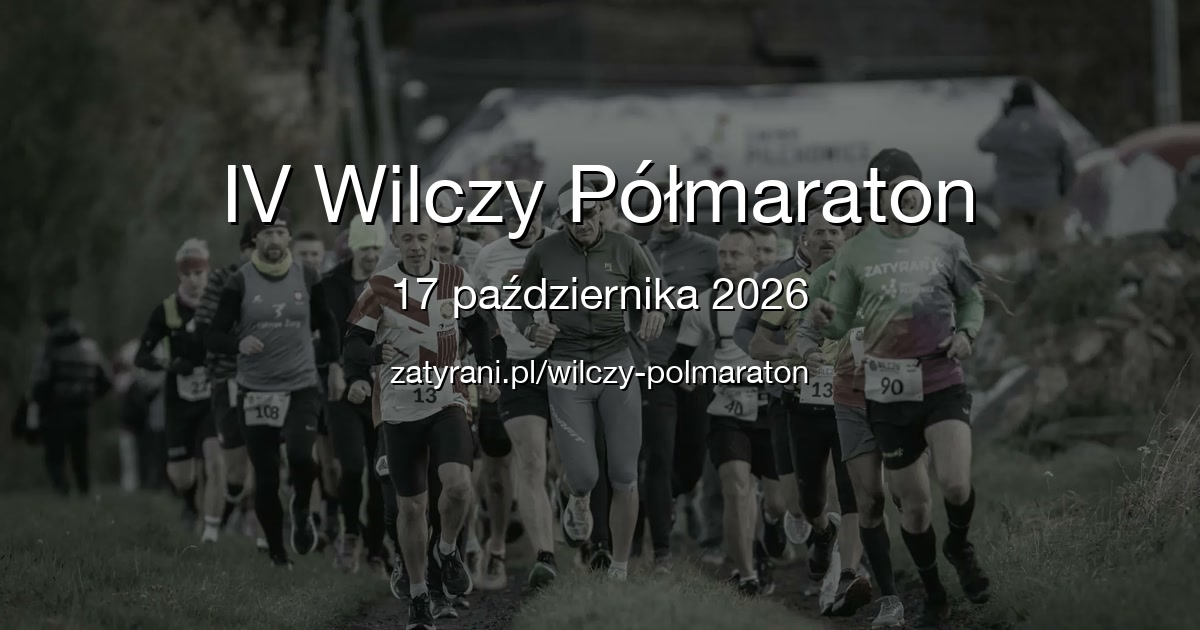
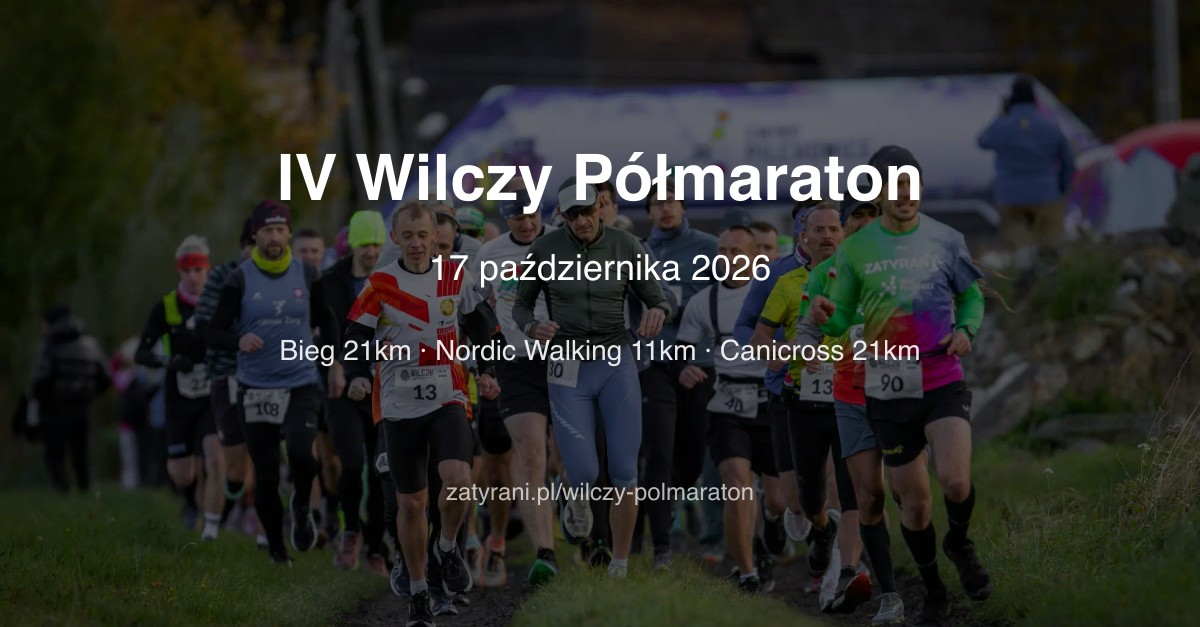
feat: add distances to wilczypolmaraton OG image
Regenerated OG image with "Bieg 21km · Nordic Walking 11km ·
Canicross 21km" line. Added generation script for future updates.

diff --git a/scripts/generate-og-image.js b/scripts/generate-og-image.js
@@ -1,0 +1,37 @@
+/**
+ * One-off script to regenerate the wilczypolmaraton OG image
+ * with event name, date, URL, and distances overlay.
+ *
+ * Usage: node scripts/generate-og-image.js
+ */
+import sharp from 'sharp';
+
+const INPUT = 'public/halfmarathon/header.webp';
+const OUTPUT = 'public/wilczypolmaraton_og.jpg';
+const WIDTH = 1200;
+const HEIGHT = 627;
+
+const svg = `
+<svg width="${WIDTH}" height="${HEIGHT}" xmlns="http://www.w3.org/2000/svg">
+  <rect width="100%" height="100%" fill="rgba(0,0,0,0.55)" />
+  <text x="50%" y="200" text-anchor="middle" fill="white" font-family="sans-serif" font-size="64" font-weight="bold">
+    IV Wilczy Półmaraton
+  </text>
+  <text x="50%" y="280" text-anchor="middle" fill="white" font-family="sans-serif" font-size="36">
+    17 października 2026
+  </text>
+  <text x="50%" y="360" text-anchor="middle" fill="rgba(255,255,255,0.9)" font-family="sans-serif" font-size="28">
+    Bieg 21km · Nordic Walking 11km · Canicross 21km
+  </text>
+  <text x="50%" y="500" text-anchor="middle" fill="rgba(255,255,255,0.7)" font-family="sans-serif" font-size="24">
+    zatyrani.pl/wilczy-polmaraton
+  </text>
+</svg>`;
+
+const image = sharp(INPUT)
+  .resize(WIDTH, HEIGHT, { fit: 'cover' })
+  .composite([{ input: Buffer.from(svg), top: 0, left: 0 }])
+  .jpeg({ quality: 90 });
+
+await image.toFile(OUTPUT);
+console.log(`Generated ${OUTPUT}`);
